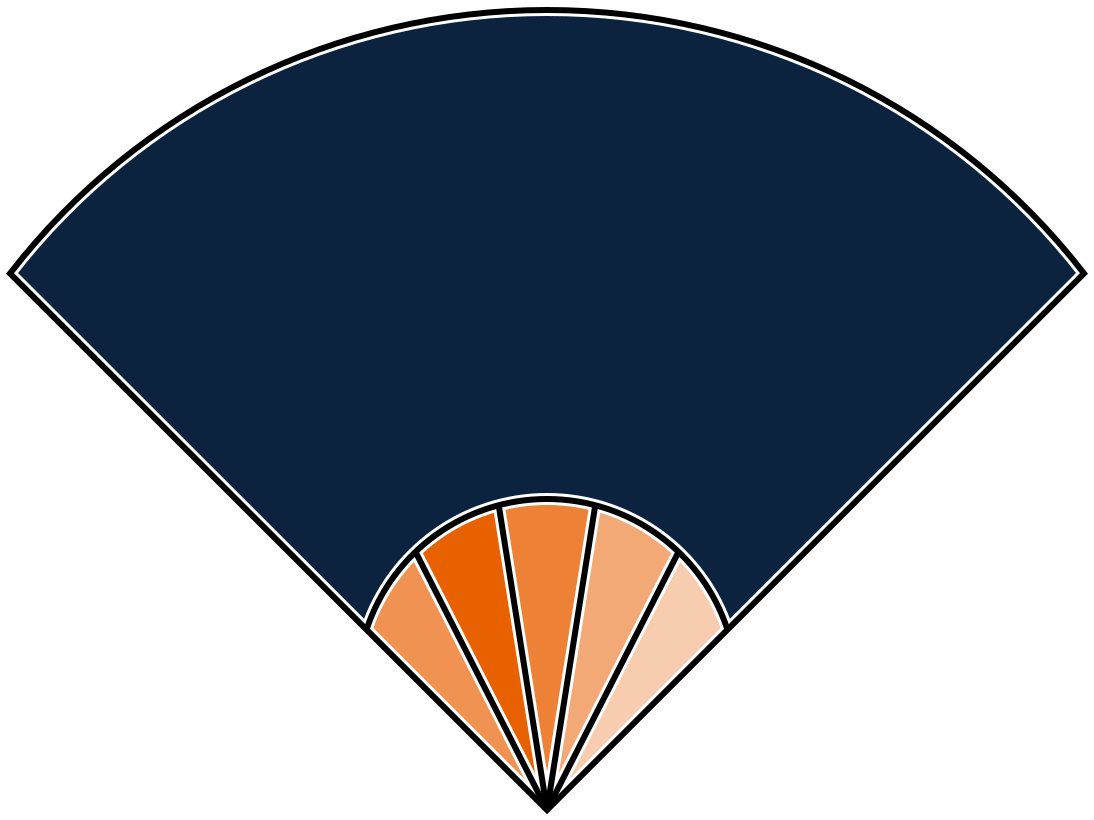
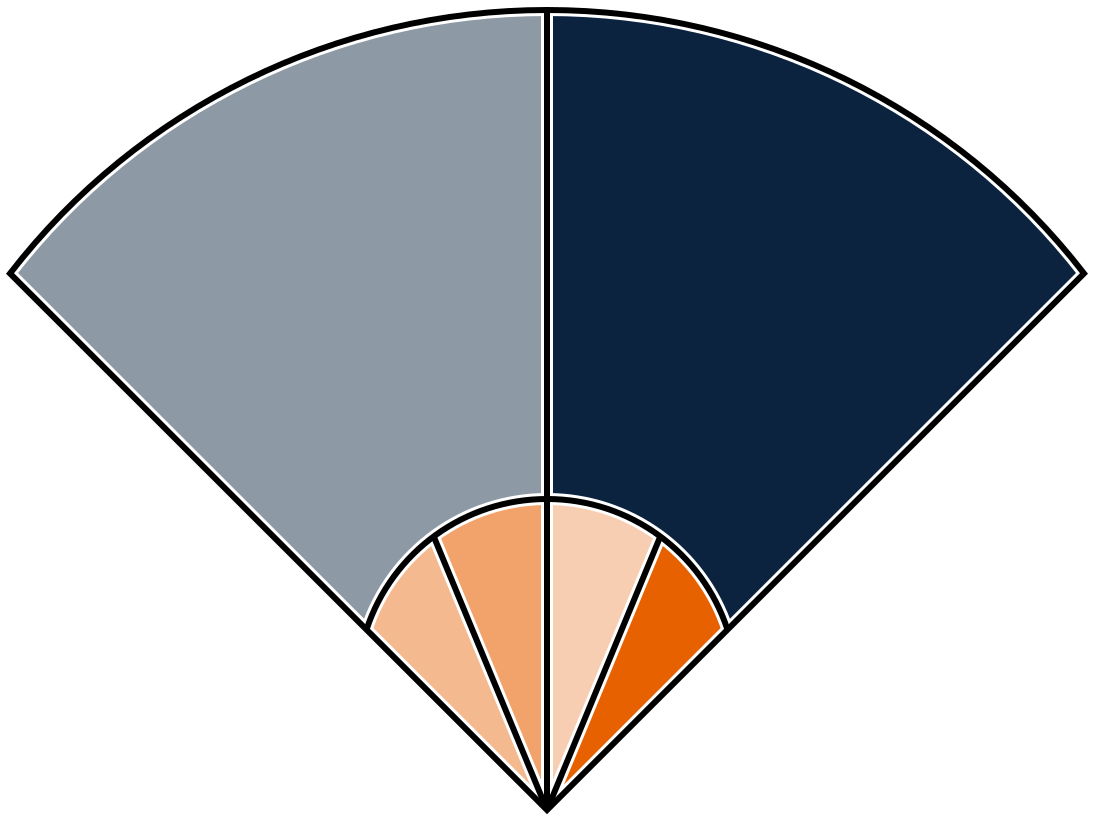
Added extra customization to visualization. Able to set infield only in the config.

Changed region(s): [[0.0, 0.0, 0.6527, 0.9756]]

diff --git a/Visualization/VisualUtil.py b/Visualization/VisualUtil.py
@@ -20,13 +20,6 @@ DISTANCE_TO_GRASS  =  95.0
 DISTANCE_TO_FENCE  = 339.5
 image_scale_factor =   2
 cushion            =  10   # Extra space around the field to allow for thicker lines / outlines. Uniform on all sides.
-PLATE = None
-MOUND = None
-FOULL = None
-FOULR = None
-ANGLE = None
-FIELD_HEIGHT = None
-FIELD_WIDTH  = None
 
 config = configparser.ConfigParser()
 config.read('Data//config.ini')
@@ -45,18 +38,25 @@ def visualizeData(infieldPercentages, outfieldPercentages):
     surface = cairo.ImageSurface(cairo.FORMAT_ARGB32, FIELD_WIDTH, FIELD_HEIGHT)
     draw = cairo.Context(surface)
 
-    # Draw the slices
-    fillOutfieldSlices(draw, outfield_slices, outfieldPercentages)
-    fillInfieldSlices(draw, infield_slices, infieldPercentages)
-    # Draw the field on top
-    drawField(draw, infield_slices, outfield_slices)
+    # Draw the slices & layer field lines on top
+    if(config['VISUAL']['RenderOutfield']=='True'):
+        fillSlices(draw, outfield_slices, outfieldPercentages, DISTANCE_TO_FENCE, OUTFIELD_ARC, NAVY_LIGHT,   NAVY_DARK)
+        fillSlices(draw, infield_slices,  infieldPercentages,  DISTANCE_TO_GRASS, INFIELD_ARC,  ORANGE_LIGHT, ORANGE_DARK)
+        drawField(draw, infield_slices, outfield_slices)
+    else:
+        fillSlices(draw, infield_slices,  infieldPercentages,  DISTANCE_TO_FENCE, OUTFIELD_ARC,  ORANGE_LIGHT, ORANGE_DARK)
+        drawOnlyInfield(draw, infield_slices)
 
     surface.write_to_png('Visualization/FieldTest.png')
 
     # Write text on top of the image
     image = Image.open('Visualization/FieldTest.png')
-    image = addInfieldPercents(image, infield_slices, infieldPercentages)
-    image = addOutfieldPercents(image, outfield_slices, outfieldPercentages)
+    if(config['VISUAL']['RenderOutfield']=='True'):
+        image = addPercents(image, infield_slices,  infieldPercentages,  DISTANCE_TO_GRASS)
+        image = addPercents(image, outfield_slices, outfieldPercentages, DISTANCE_TO_FENCE)
+    else:
+        image = addPercents(image, infield_slices,  infieldPercentages,  DISTANCE_TO_FENCE)
+
     image.show()
 
 
@@ -84,13 +84,21 @@ def initializeFieldVariables():
 
 def drawField(draw, infield, outfield):
     drawFieldLines(draw, 12, WHITE)
-    drawFieldSplit(draw, 12, WHITE)
     drawInfieldSliceLines (draw, 12, WHITE, infield)
     drawOutfieldSliceLines(draw, 12, WHITE, outfield)
-    drawFieldLines(draw,  6, BLACK)
+    drawFieldSplit(draw, 12, WHITE)
     drawFieldSplit(draw,  6, BLACK)
+    drawFieldLines(draw,  6, BLACK)
     drawInfieldSliceLines (draw,  6, BLACK, infield)
     drawOutfieldSliceLines(draw,  6, BLACK, outfield)
+
+def drawOnlyInfield(draw, infield):
+    drawFieldLines(draw, 12, WHITE)
+    drawInfieldSliceLines (draw, 12, WHITE, infield)
+    drawOutfieldSliceLines(draw, 12, WHITE, infield)
+    drawFieldLines(draw,  6, BLACK)
+    drawInfieldSliceLines (draw,  6, BLACK, infield)
+    drawOutfieldSliceLines(draw,  6, BLACK, infield)
 
 def drawFieldLines(draw, thick, color):
     draw.move_to(PLATE[0], PLATE[1])
@@ -125,25 +133,15 @@ def drawSliceLine(draw, start, end, thick, color):
     draw.set_source_rgba(color[0], color[1], color[2], color[3])
     draw.stroke()
 
-def fillInfieldSlices(draw, slices, percentages):
+def fillSlices(draw, slices, percentages, arc_distance, arc_angle, color1, color2):
     maxOdds = max(percentages)
-    angle_to = -math.pi/2 - INFIELD_ARC
-    angle_diff = 2 * INFIELD_ARC / slices
+    angle_to = -math.pi/2 - arc_angle
+    angle_diff = 2 * arc_angle / slices
     for i in range(0, slices):
         angle_from = angle_to
         angle_to += angle_diff
-        sliceColor = blendColors(ORANGE_LIGHT, ORANGE_DARK, percentages[i]/maxOdds)
-        drawFilledSlice(draw, angle_from, angle_to, sliceColor, DISTANCE_TO_GRASS)
-
-def fillOutfieldSlices(draw, slices, percentages):
-    maxOdds = max(percentages)
-    angle_to = -math.pi/2 - OUTFIELD_ARC
-    angle_diff = 2 * OUTFIELD_ARC / slices
-    for i in range(0, slices):
-        angle_from = angle_to
-        angle_to += angle_diff
-        sliceColor = blendColors(NAVY_LIGHT, NAVY_DARK, percentages[i]/maxOdds)
-        drawFilledSlice(draw, angle_from, angle_to, sliceColor, DISTANCE_TO_FENCE)
+        sliceColor = blendColors(color1, color2, percentages[i]/maxOdds)
+        drawFilledSlice(draw, angle_from, angle_to, sliceColor, arc_distance)
     
 def drawFilledSlice(draw, angle_from, angle_to, color, radius):
     draw.move_to(PLATE[0], PLATE[1])
@@ -157,16 +155,10 @@ def drawText(image, text, position):
     draw = ImageDraw.Draw(image)
     draw.text((position[0], position[1]), text, font=useFont, fill=color10to255(BLACK), align="center", anchor="mm", stroke_width=3, stroke_fill=color10to255(WHITE))
 
-def addInfieldPercents(image, slices, infield):
+def addPercents(image, slices, percentages, arc_distance):
     for i in range(0, slices):
-        pos = flip_xy(getIntersection(flip_y((MOUND[0], MOUND[1], DISTANCE_TO_GRASS * 0.75)), flip_y((PLATE[0], PLATE[1])), math.radians(45 + ((i+0.5) * 90 / slices))))
-        drawText(image, cleanNumber(infield[i]), pos)
-    return image
-
-def addOutfieldPercents(image, slices, outfield):
-    for i in range(0, slices):
-        pos = flip_xy(getIntersection(flip_y((MOUND[0], MOUND[1], DISTANCE_TO_FENCE * 0.75)), flip_y((PLATE[0], PLATE[1])), math.radians(45 + ((i+0.5) * 90 / slices))))
-        drawText(image, cleanNumber(outfield[i]), pos)
+        pos = flip_xy(getIntersection(flip_y((MOUND[0], MOUND[1], arc_distance * 0.75)), flip_y((PLATE[0], PLATE[1])), math.radians(45 + ((i+0.5) * 90 / slices))))
+        drawText(image, cleanNumber(percentages[i]), pos)
     return image
 
 # Blends two RGBA colors together based on a ratio (0..1)
